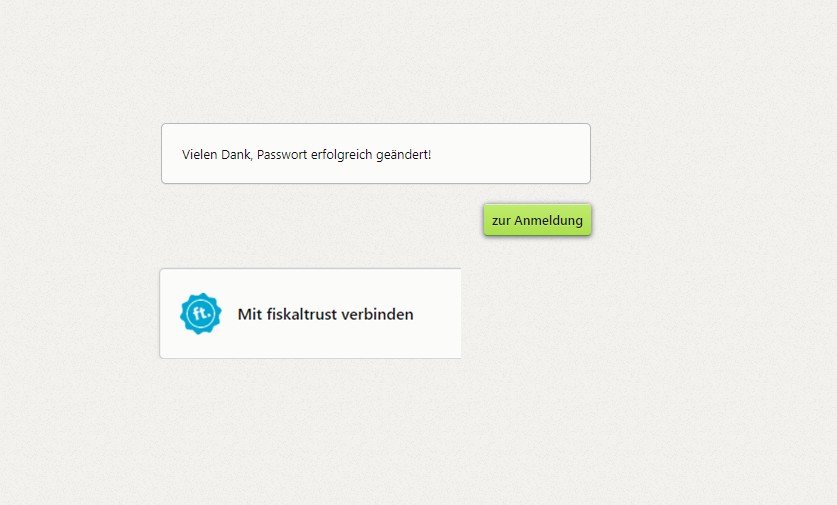
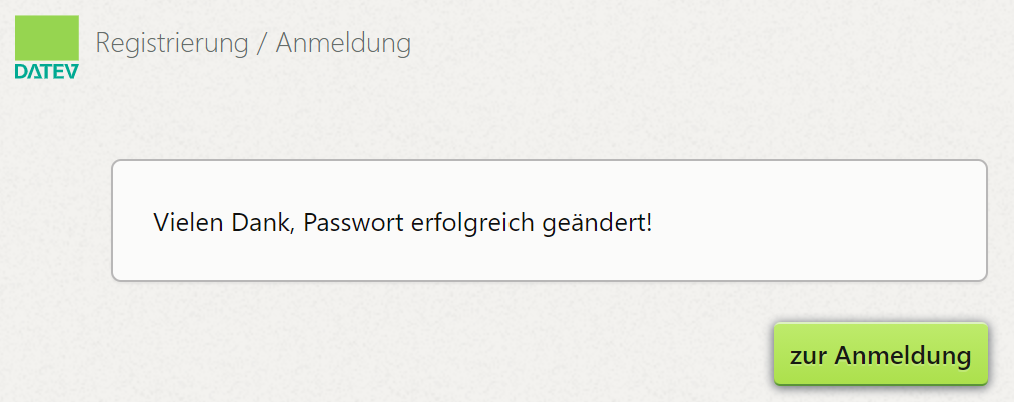
wording plattform/portal changed, Step-by-step guide changed from step 5 on, screenshots changed

diff --git a/posdealers/01-products/meinFiskal.md b/posdealers/01-products/meinFiskal.md
@@ -6,17 +6,15 @@ title: MeinFiskal
 
 ## Produktbeschreibung
 
-Das Produkt "MeinFiskal" ist fester Bestandteil des "fiskaltrust.Sorglos" Produkt-Bundles, aber auch als optionales Einzelprodukt verfügbar. Von der fiskaltrust.Plattform gelangen die Daten über eine automatisierte Schnittstelle auf die "[DATEV  MeinFiskal](https://www.meinfiskal.de/)" Plattform, wodurch die inkludierten Grundservices „DATEV Kassenarchiv online“ und die „DATEV Kassenbuch-Schnittstelle“ genutzt werden können.
+Das Produkt "MeinFiskal" ist fester Bestandteil des "fiskaltrust.Sorglos" Produkt-Bundles, aber auch als optionales Einzelprodukt verfügbar. Vom fiskaltrust.Portal gelangen die Daten über eine automatisierte Schnittstelle auf die "[DATEV  MeinFiskal](https://www.meinfiskal.de/)" Plattform, wodurch die inkludierten Grundservices „DATEV Kassenarchiv online“ und die „DATEV Kassenbuch-Schnittstelle“ genutzt werden können.
 
 ### Prozessbeschreibung
 
-Der Kassenhändler aktiviert im fiskaltrust.Portal die Rolle DATEV MeinFiskal und zeichnet den <details>
-  <summary>Nutzungsvertrag.</summary> 
-
-<iframe src="media/Nutzungsvereinbarung-DATEV_MeinFiskal.pdf" width=100% height=500px)></iframe></details>
+! Link zum Nutzungsvertrag fehlt noch !
+Der Kassenhändler aktiviert im fiskaltrust.Portal die Rolle DATEV MeinFiskal und zeichnet den Nutzungsvertrag.
 Die Kundendaten werden zwischen fiskaltrust und DATEV ausgetauscht und ein DATEV MeinFiskal Account angelegt. Der KassenHändler ändert das Kennwort des DATEV Accounts und bestätigt im fiskaltrust.Portal die Datenübertragung zwischen fiskaltrust und DATEV. Der KassenBetreiber erhält eine Willkommens-E-Mail von DATEV MeinFiskal, und kann die inkludierten Dienstleistungen DATEV KAssenarchiv online und DATEV Kassenbuch-Schnittstelle nutzen.
 
-fiskaltrust übernimmt die Generierung der gesetzlich vorgeschriebenen Datenformate (DSFinV-K, DFKA-Taxonomie, .tar-Files, natives Format, sonstige Dokumente), sowie die Anbindung und Datenübermittlung an DATEV MeinFiskal über die fiskaltrust.Plattform. Eine Anbindung an DATEV MeinFiskal durch den KassenHersteller ist für den KassenHändler bzw. den KassenBetreiber nicht mehr notwendig.
+fiskaltrust übernimmt die Generierung der gesetzlich vorgeschriebenen Datenformate (DSFinV-K, DFKA-Taxonomie, .tar-Files, natives Format, sonstige Dokumente), sowie die Anbindung und Datenübermittlung an DATEV MeinFiskal über das fiskaltrust.Portal. Eine Anbindung an DATEV MeinFiskal durch den KassenHersteller ist für den KassenHändler bzw. den KassenBetreiber nicht mehr notwendig.
 
 ! Ersetzen durch eigenes?
 ![MeinFiskal_Prozess](media/meinFiskal_Schnittstellen.png)
@@ -25,7 +23,7 @@ fiskaltrust übernimmt die Generierung der gesetzlich vorgeschriebenen Datenform
 
 ### Voraussetzungen
 
-Der KassenBetreiber ist bereits im Fiskaltrust-Portal aktiv, hat den Fiskaltrust-AGBs und der KassenBetreiber-Nutzungsvereinbarung zugestimmt, seine Stammdaten kontrolliert und der KassenHändler hat die Berechtigung Vertragsabschluss. Sollten diese Voraussetzungen nicht erfüllt sein, muß erst das [KassenBetreiber Onboarding](https://docs.fiskaltrust.cloud/docs/posdealers/rollout-doc/invitation-management) abgeschlossen werden oder der die Einrichtung vom KassenBetreiber selbst durchgeführt werden.
+Der KassenBetreiber ist bereits im fiskaltrust.Portal aktiv, hat den Fiskaltrust-AGBs und der KassenBetreiber-Nutzungsvereinbarung zugestimmt, seine Stammdaten kontrolliert und der KassenHändler hat die Berechtigung Vertragsabschluss. Sollten diese Voraussetzungen nicht erfüllt sein, muß erst das [KassenBetreiber Onboarding](https://docs.fiskaltrust.cloud/docs/posdealers/rollout-doc/invitation-management) abgeschlossen werden oder der die Einrichtung vom KassenBetreiber selbst durchgeführt werden.
 
 <details>
   <summary>Prüfen der Voraussetzungen</summary>  
@@ -51,7 +49,7 @@ Der KassenBetreiber ist bereits im Fiskaltrust-Portal aktiv, hat den Fiskaltrust
 
 ### Anleitung
 
-1. Der KassenHändler aktiviert im Namen des KassenBetreibers die Rolle DATEV MeinFiskal im [Portal](https://portal-sandbox.fiskaltrust.de/AccountProfile).
+1. Der KassenHändler aktiviert im Namen des KassenBetreibers die Rolle DATEV MeinFiskal im [fiskaltrust.Portal](https://portal-sandbox.fiskaltrust.de/AccountProfile).
 
 <details>
 <summary>Screenshot Rollen </summary>  
@@ -72,7 +70,7 @@ Der KassenBetreiber ist bereits im Fiskaltrust-Portal aktiv, hat den Fiskaltrust
 </details>
 &nbsp;
 
-4. Der Passwort Änderungsfenster des DATEV MeinFiskal Portals wird angezeigt. Der KassenHändler setzt ein neues Passwort und drückt "Speichern".
+4. Der Passwort Änderungsfenster der DATEV MeinFiskal Webseite wird angezeigt. Der KassenHändler setzt ein neues Passwort und drückt "Speichern".
 <details>
 <summary>Screenshot DATEV Kennwortänderung </summary>  
 
@@ -81,20 +79,7 @@ Der KassenBetreiber ist bereits im Fiskaltrust-Portal aktiv, hat den Fiskaltrust
 </details>
 &nbsp;
 
-! DEr Button zum Fiskaltrust portal fehlt !!! Klickt man auf Anmeldung kann man sich nicht anmelden und kommt nicht mehr weiter
-<details>
-<summary>aktueller DATEV Anmeldedialog </summary>  
-
-![DATEV_Passwort_ändern](media/DATEV_PW_Change_Success_Test1.png)
-
-</details>
-&nbsp;
-
-? Muss man sich nun bei DATEV MeinFiskal anmelden oder auf den fiskaltrust link klicken ?
-
-5. Der Anmeldefenster des DATEV MeinFiskal Portals wird angezeigt. Der KassenHändler meldet sich mit der Emailadresse des Kassenbetreibers und dem im vorigen Schritt eingegebenen Passwort an.
-
-5. Dem KassenHändler wird eine Bestätigung der Passwort Änderung und ein Hersteller-spezifischer Link durch z.B. ein Fiskaltrust-Icon angezeigt. Der KassenHändler drückt auf den Link und gelangt wieder zum fiskaltrust.Portal.
+5. Dem KassenHändler wird eine Bestätigung der Passwort Änderung und ein Anmelde Button angezeigt. Der KassenHändler drückt auf den Anmelde Button.
 <details>
 <summary>Screenshot DATEV Kennwortänderung erfolgreich</summary>  
 
@@ -103,31 +88,27 @@ Der KassenBetreiber ist bereits im Fiskaltrust-Portal aktiv, hat den Fiskaltrust
 </details>
 &nbsp;
 
-6. Der KassenHändler drückt im fiskaltrust.Portal den Button "Mit MeinFiskal verbinden". 
-
-! Screenshot
-
-7. Der KassenHändler gibt in dem sich öffnenden Anmeldedialog seine DATEV MeinFiskal Anmeldedaten ein und bestätigt die Verbindung zwischen fiskaltrust und DATEV MeinFiskal. Der Datenaustausch zwischen den Plattformen fiskaltrust und DATEV MeinFiskal ist nun aktiv.
+6. Der KassenHändler gibt in dem sich öffnenden Anmeldedialog seine DATEV MeinFiskal Anmeldedaten ein und bestätigt die Verbindung zwischen fiskaltrust und DATEV MeinFiskal. Mit diesem Schritt werden das fiskaltrust und Datev MeinFiskal Konto miteinander verbunden. 
 
 <details>
-<summary>Screenshot DATEV Verbindung bestätigen</summary>  
+<summary>Screenshot DATEV Anmeldung / Accounts verbinden</summary>  
 
-![DATEV_Consent](media/DATEV_Consent_Dialog.png)
+![DATEV_Consent](media/DATEV_Login_Dialog.png)
+
+</details>
+&nbsp;
+
+7. Der KassenHändler hat sich erfolgreich auf der DATEV MeinFiskal Webseite angemeldet und wird aufgefordert, den Datenaustausch zwischen fikaltrust und DATEV MeinFiskal zu bestätigen. Der KassenHändler setzt den Haken bei der Checkbox und klickt auf den Bestätigen Button. Der Datenaustausch zwischen fiskaltrust und DATEV MeinFiskal ist nun aktiv. 
+
+<details>
+<summary>Screenshot DATEV Datenaustausch zustimmen </summary>  
+
+! Screenshot fehlt noch
 
 </details>
 &nbsp;
 
 8. Der KassenBetreiber erhält 1 Stunde später eine Willkommens-E-Mail mit allgemeinen Informationen und einem Link zur Kennwortänderung.
-
-! Screenshot anpassen / Name Adresse anonymisieren wenn mit Testdaten nicht möglich?
-
-<details>
-<summary>Screenshot DATEV Verbindung bestätigen</summary>  
-
-![DATEV_Willkomens_E_Mail](media/DATEV_Willkommens_E_Mail.png)
-
-</details>
-&nbsp;
 
 9. Der KassenBetreiber klickt auf den Link zur Kennwortänderung und ändert sein DATEV MeinFiskal Kennwort (siehe Screenshot unter Punkt 4). 
 Der KassenBetreiber kann nun die inkludierten Dienstleistungen DATEV KAssenarchiv online und DATEV Kassenbuch-Schnittstelle nutzen.
@@ -136,6 +117,8 @@ Der KassenBetreiber kann nun die inkludierten Dienstleistungen DATEV KAssenarchi
 
 - Der KassenHändler kann den Nutzungsvertrag zu DATEV MeinFiskal nicht für den KassenBetreiber unterschreiben, da ihm die Berechtigung dazu fehlt. Der KassenHändler muss Kontakt zum KassenBetreiber aufnehmen, damit dieser ihm die notwendige Berechtigung erteilt.
 
-- Der KassenHändler führt die Kennwortänderung in Schritt 3 nicht durch und kann sich nicht mehr bei der DATEV MeinFiskal Plattform als KassenBetreiber anmelden. Nach spätestens 4 Tagen wird die Willkommens-E-Mail an den KassenBetreiber versendet. Um den Prozess mit Schritt 4 fortsetzen zu können, muss der KassenHändler Kontakt mit dem KassenBetreiber aufnehmen um das aktuelle Kennwort zu erhalten.
+- Der KassenHändler führt die Kennwortänderung in Schritt 3 nicht durch und kann sich nicht mehr bei DATEV MeinFiskal als KassenBetreiber anmelden. Nach spätestens 4 Tagen wird die Willkommens-E-Mail an den KassenBetreiber versendet. Um den Prozess mit Schritt 4 fortsetzen zu können, muss der KassenHändler Kontakt mit dem KassenBetreiber aufnehmen um das aktuelle Kennwort zu erhalten.
 
-- Der KassenHändler kann sich nicht mehr auf der DATEV MeinFiskal Plattform anmelden, da er die Zugangsdaten nicht mehr hat. Er kann eine nochmalige E-Mail zur Kennwortänderung auf der DATEV MeinFiskal Plattform nicht eigenständig anfordern. Dies ist nur über den KassenBetreiber möglich, sobald dieser die Willkommens-E-Mail mit dem Link zur Kennwortänderung auf der DATEV MeinFiskal Plattform erhalten hat.
+- Der KassenHändler kann sich nicht mehr auf der DATEV MeinFiskal anmelden, da er die Zugangsdaten nicht mehr hat. Er kann eine nochmalige E-Mail zur Kennwortänderung auf der DATEV MeinFiskal Webseite nicht eigenständig anfordern. Dies ist nur über den KassenBetreiber möglich, sobald dieser die Willkommens-E-Mail mit dem Link zur Kennwortänderung auf der DATEV MeinFiskal Webseite erhalten hat.
+
+- Der KassenHändler kann den Verknüpfungsvorgang zwischen fiskaltrust und DATEV MeinFiskal nicht abschliessen, weil bei der Eingabe von Benutzername und Passwort auf der DATEV MeinFiskal Webseite in Schritt 6 der falsche Benutzername angegeben wurde. Der KassenHändler muss sich an den fiskaltrust Support wenden, damit die falsche Verknüpfung wieder gelöscht werden kann.
